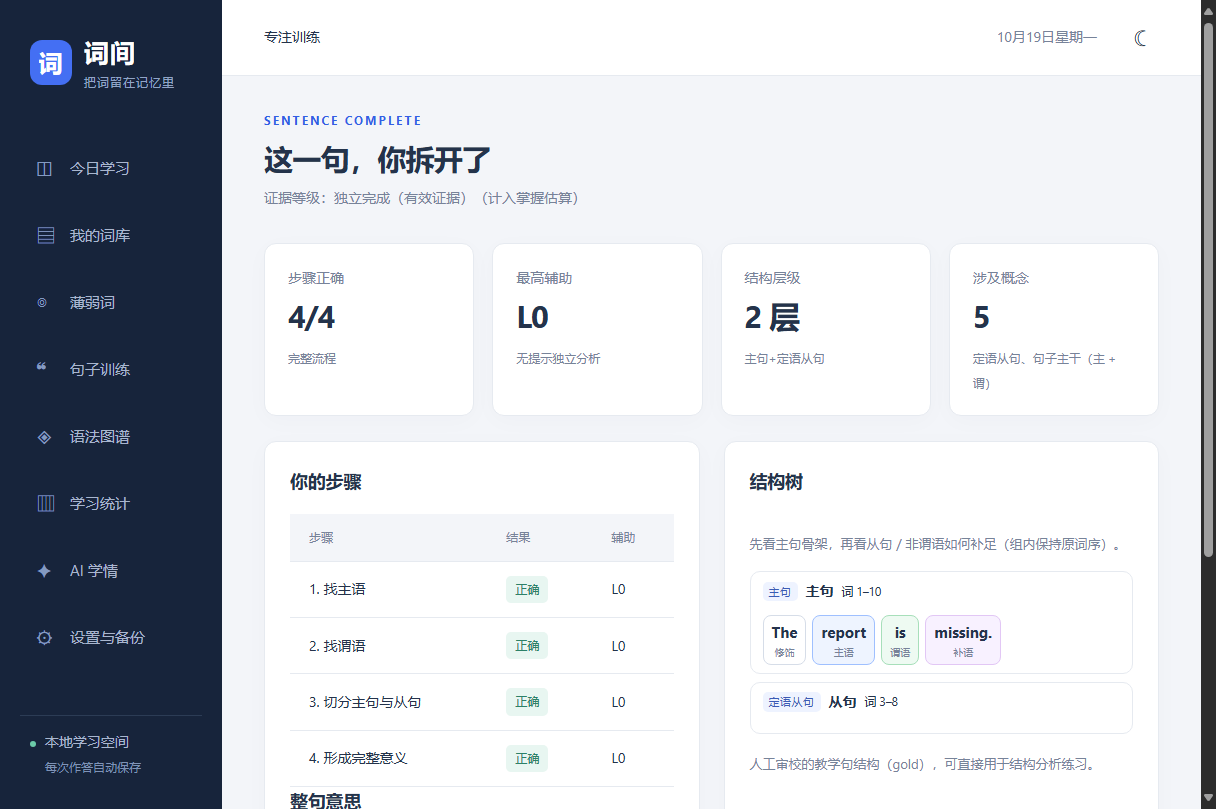
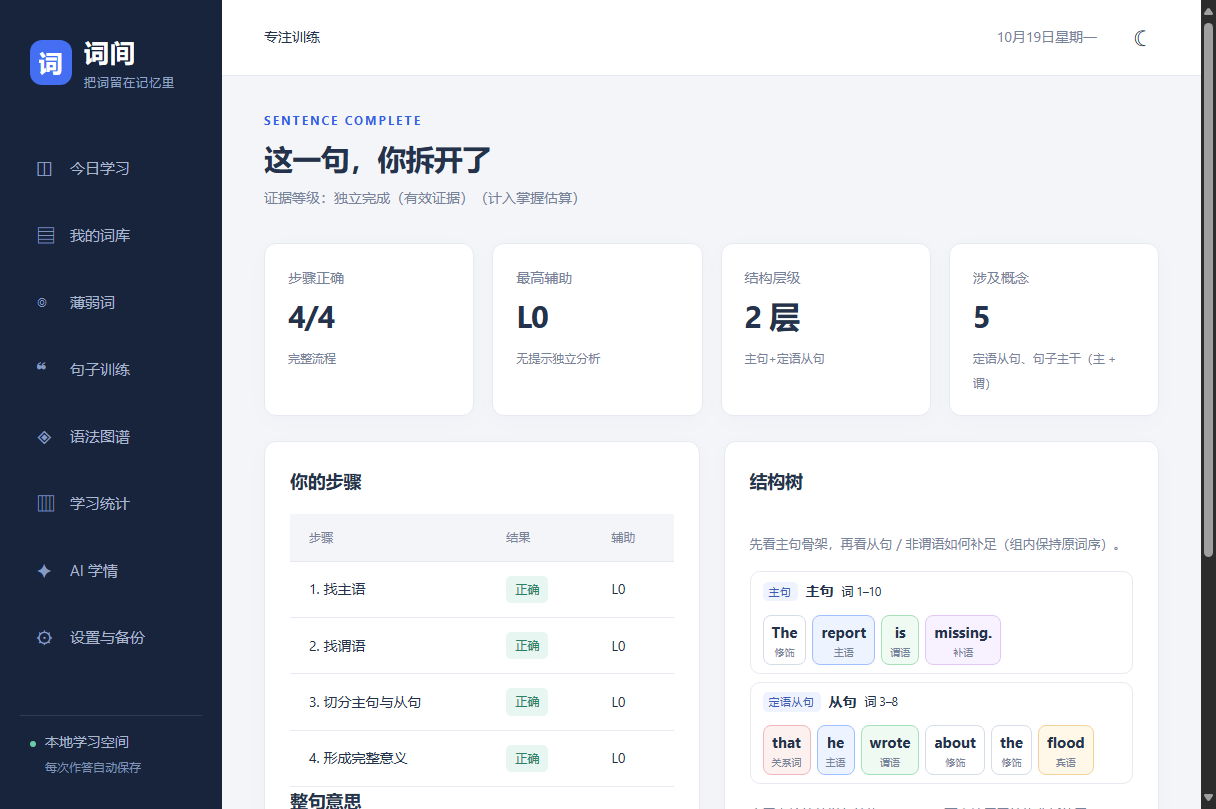
fix(phase4): expand every clause in the sentence tree by default
Child clauses were rendered inside collapsed <details>, so the relative clause
tokens were invisible until clicked. Learner-facing structure tree now shows
main clause and child clauses fully expanded (token order unchanged).

Changed region(s): [[0.625, 0.8962, 0.9062, 0.958]]

diff --git a/dist/assets/index-D0JoPHl4.js b/dist/assets/index-D0JoPHl4.js
@@ -116,4 +116,4 @@ obvious,明显的,adj.`]),"词书格式示例.csv")),pe("#resume","click",()=>bd
             ${t.supportLevel>0&&!t.answered?`<p class="hint">提示：${Q(s.hint)}</p>`:""}
             ${c}
         </section>
-        <p class="hint">句子来源：${r.sourceType} · 结构来源：${t.plan.simplified?"简化流程（句子较简单）":Nn(r.structure,r.id,r.text).structure.provenance}${t.plan.uncertain?" · 结构不确定，已标注":""}${t.plan.notes.length?` · ${Q(t.plan.notes.join("；"))}`:""}</p></div>`,document.querySelectorAll("[data-lab-option]").forEach(l=>l.addEventListener("click",()=>void Gb(l.dataset.labOption??""))),pe("#lab-hint","click",()=>{!($e!=null&&$e.current)||$e.current.answered||($e.current.supportLevel=Math.min(gi,$e.current.supportLevel+1),ze())}),pe("#lab-next","click",()=>qb()),pe("#lab-skip","click",()=>Xb()),document.querySelectorAll("[data-lab-back]").forEach(l=>l.addEventListener("click",()=>{$e=null,Et="sentence",ze()})),document.querySelectorAll("[data-jit]").forEach(l=>l.addEventListener("click",()=>Kb(l.dataset.jit??"")))}async function Gb(e){const t=$e,r=t==null?void 0:t.current;if(!t||!r||r.answered)return;const a=r.plan.steps[r.stepIndex],n=qT(a,e,r.supportLevel);r.stepRecords.push(YT(a.id,e,n.correct,r.supportLevel,Date.now()-r.stepStartedAt,n.errorType)),r.answered=e,r.evaluation=n,ze()}function qb(){const e=$e,t=e==null?void 0:e.current;if(!(!e||!t)){if(t.stepIndex+1<t.plan.steps.length){t.stepIndex++,t.answered=null,t.evaluation=null,t.supportLevel=0,t.stepStartedAt=Date.now(),ze();return}Yb()}}function Xb(){const e=$e;if(e){if(e.index++,e.index>=e.queue.length){Pd();return}Ei(),ze()}}function Kb(e){const t=$e,r=t==null?void 0:t.current;if(!(r!=null&&r.evaluation))return;const a=ib(e,r.evaluation);if(!a){ye("这个知识点暂时没有卡片");return}ur(`<div class="eyebrow">JUST-IN-TIME · ${a.seconds}s</div><h2>${Q(a.name)}</h2><p><b>规则</b> ${Q(a.rule)}</p><p><b>为什么</b> ${Q(a.why)}</p><blockquote>${Q(a.example.ok)}${a.example.bad?`<br><small class="bad-line">✗ ${Q(a.example.bad)}</small>`:""}${a.example.note?`<br><small>${Q(a.example.note)}</small>`:""}</blockquote><p><b>你刚才的错误</b> ${Q(a.trigger)}</p><ul class="plain-list">${a.commonErrors.map(n=>`<li>${Q(n)}</li>`).join("")}</ul><p><b>迁移</b> ${Q(a.transfer)}</p><div class="actions"><button class="primary" id="jit-back">回到原句再判断</button></div>`),pe("#jit-back","click",()=>Cr())}async function Yb(){const e=$e,t=e==null?void 0:e.current,r=Nd();if(!e||!t||!r)return;const a=t.stepRecords.every(c=>c.correct),n={sentenceId:r.id,sentence:r.text,sourceType:r.sourceType,sourceId:r.sourceId,targetWords:r.targetWordIds,grammarConceptIds:$i(r),steps:t.stepRecords,durationMs:Math.max(1e3,Date.now()-e.startedAt),sessionId:e.sessionId,meaningCorrect:t.stepRecords.filter(c=>c.stepId.startsWith("meaning")).every(c=>c.correct)?!0:t.stepRecords.some(c=>c.stepId.startsWith("meaning"))?!1:null,translationDependence:Lo(t.stepRecords),transferOf:t.transferOf,delayed:t.delayed},s=sb({concepts:U.grammarConcepts,grammarAttempts:U.grammarAttempts,sentenceAttempts:U.sentenceAttempts},n,ob(t.plan.steps),Date.now(),Vt);U.grammarConcepts=s.concepts;const i=s.grammarAttempts.filter(c=>!U.grammarAttempts.some(l=>l.id===c.id));U.grammarAttempts=s.grammarAttempts;let o=null;if(!s.duplicate){U.sentenceAttempts.push(s.attempt),o={...r,usedCount:(r.usedCount??0)+1,lastUsedAt:Date.now()},Ke=Ke.map(c=>c.id===r.id?o:c),U.sentences=Ke;try{await xh(s.attempt,i,s.concepts.filter(c=>s.updatedConceptIds.includes(c.id)),o)}catch(c){ye(`证据保存失败（本地数据仍保留在内存）：${c.message}`)}}t.done=!0,t.result={evidenceClass:s.evidenceClass,counts:s.countsTowardMastery,allCorrect:a,duplicate:s.duplicate,conceptIds:s.updatedConceptIds},e.finished.push({sentenceId:r.id,correctSteps:t.stepRecords.filter(c=>c.correct).length,total:t.stepRecords.length,evidenceClass:s.evidenceClass,conceptIds:s.updatedConceptIds}),ze()}function Lo(e){return e.reduce((t,r)=>Math.max(t,r.supportLevel??0),0)}function Jb(e){const t=$e,r=t.current,a=r.result,n=Nn(e.structure,e.id,e.text).structure,s=ud(n),i=r.stepRecords.map((l,f)=>{const u=r.plan.steps[f];return`<tr><td>${f+1}. ${Q(_d[(u==null?void 0:u.kind)??"subject"])}</td><td>${l.correct?'<span class="badge fluent">正确</span>':`<span class="badge unknown">错误</span> <small>${ji[l.errorType]??l.errorType}</small>`}</td><td>L${l.supportLevel??0}</td></tr>`}).join(""),o=eb(e,Ke),c=t.index+1>=t.queue.length;_e("#main").innerHTML='<div id="lab-results">'+Dr("SENTENCE COMPLETE",a.allCorrect?"这一句，你拆开了":"这一句还没完全拆开",`证据等级：${ZT[a.evidenceClass]}${a.counts?"（计入掌握估算）":"（不计入掌握，只计接触）"}`)+`<div class="metrics">${Qe("步骤正确",`${r.stepRecords.filter(l=>l.correct).length}/${r.stepRecords.length}`,r.plan.simplified?"简化流程":"完整流程")}${Qe("最高辅助",`L${Lo(r.stepRecords)}`,Ui[Lo(r.stepRecords)])}${Qe("结构层级",`${s.clauseCount} 层`,s.clauseKinds.map(l=>tn[l]).join("+"))}${Qe("涉及概念",String(a.conceptIds.length),a.conceptIds.slice(0,2).map(l=>{var f;return((f=cr(l))==null?void 0:f.name)??l}).join("、"))}</div><div class="two-col"><section class="panel"><h2>你的步骤</h2><div class="table-scroll"><table><thead><tr><th>步骤</th><th>结果</th><th>辅助</th></tr></thead><tbody>${i}</tbody></table></div><h2>整句意思</h2><p class="meaning-reveal">${Q(e.zh)}</p><p class="hint">先自己复述一遍，再对照；这一步不产生掌握证据。</p></section><section class="panel"><h2>结构树</h2>${Qb(e,n)}</section></div><div class="actions">${o?'<button class="secondary" id="lab-transfer">换一句同结构的新句（迁移验证）</button>':""}<button class="primary" id="lab-next-sentence">${c?"结束本次训练":"下一句"}</button></div>`+(o?`<p class="hint">迁移句：${Q(o.candidate.text)}（共用 ${o.sameGrammar.map(l=>{var f;return((f=cr(l))==null?void 0:f.name)??l}).join("、")}）</p>`:"")+"</div>",pe("#lab-next-sentence","click",()=>{t.index++,t.index>=t.queue.length?Pd():(Ei(),ze())}),pe("#lab-transfer","click",()=>{o&&(t.queue.splice(t.index+1,0,o.candidate.id),t.index++,Ei({transferOf:e.id}),ze())})}function Zb(e){const t=e.glossary??{},r=e.text.toLowerCase(),a=s=>{const i=s.split(" ")[0].toLowerCase().replace(/[^a-z']/g,""),o=r.indexOf(i);if(o<0)return!1;const c=o===0?" ":r[o-1],l=o+i.length>=r.length?" ":r[o+i.length];return!/[a-z]/.test(c)&&!/[a-z]/.test(l)},n=Object.entries(t).filter(([s])=>a(s));return n.length?`<div class="pret teach"><span class="src-badge">预教词</span> ${n.map(([s,i])=>`<span class="token"><b>${Q(s)}</b><small>${Q(i)}</small></span>`).join(" ")}<p class="hint">先确认这些词的意思，再开始拆句；它们不计入"未知生词"。</p></div>`:""}function Qb(e,t){const r=fa(t),n=[...t.clauses].sort((i,o)=>i.start-o.start).map(i=>`<details class="tree-clause" ${i.parentId?"":"open"}><summary><span class="clause-kind">${tn[i.kind]}</span> <b>${Q(i.label)}</b> <small>词 ${i.start+1}–${i.end+1}</small></summary><div class="tree-tokens">${r.filter(o=>o.clauseId===i.id).map(o=>`<span class="token role-${o.role}" title="依存：${Q(o.headText)}${o.note?` · ${Q(o.note)}`:""}"><b>${Q(o.text)}</b><small>${o.roleLabel}</small></span>`).join("")}</div></details>`).join(""),s=t.provenance==="gold"?"":`<p class="hint warn">结构来源是 ${t.provenance}（confidence ${t.confidence}）：这不是可靠的完整句法分析，只用于引导你注意成分位置。</p>`;return`<div id="lab-tree" class="tree"><p class="hint">先看主句骨架，再看从句／非谓语如何补足（组内保持原词序）。</p>${n}</div>${s}<p class="hint">${Q(t.note)}</p>`}async function Pd(){const e=$e;if(!e)return;const t=e.finished,r=Math.max(.5,Math.round((Date.now()-e.startedAt)/3e4)/2),a=e.planTaskId,n=e.planTaskKind;$e=null,a?(await zc({planTaskId:a,kind:n??"sentence-basic-structure",sessionId:e.sessionId},r),Et="home"):Et="sentence",ze(),ye(`本次完成 ${t.length} 句 · 用时约 ${Math.round(r)} 分钟${t.length?` · ${t.map(s=>`${s.correctSteps}/${s.total}`).join("、")}`:""}`)}function e4(){if(!new URLSearchParams(location.search).has("test"))return;const e={step:()=>{const t=$e==null?void 0:$e.current;if(!t)return null;const r=t.plan.steps[t.stepIndex];return{index:t.stepIndex,total:t.plan.steps.length,kind:r.kind,correctId:r.correctId,answered:!!t.answered,evidence:t.result?t.result.evidenceClass:""}},answerCorrect:()=>{const t=$e==null?void 0:$e.current;if(!t)return!1;const r=t.plan.steps[t.stepIndex],a=document.querySelector(`[data-lab-option="${r.correctId}"]`);return a?(a.click(),!0):!1},answerWrong:()=>{const t=$e==null?void 0:$e.current;if(!t)return!1;const r=t.plan.steps[t.stepIndex],a=r.options.find(s=>s.id!==r.correctId),n=a?document.querySelector(`[data-lab-option="${a.id}"]`):null;return n?(n.click(),!0):!1}};window.__labTest=e}async function t4(){e4(),await ba(),U=await hh(),Fn();try{const e=await vb({grammarConcepts:U.grammarConcepts,sentences:U.sentences});U.grammarConcepts=e.concepts,U.sentences=e.sentences,Ke=e.sentences.length?e.sentences:Io()}catch(e){Ke=Io(),console.error("图谱初始化失败",e)}try{Re=await vd(Fr(Date.now()))??null}catch{Re=null}ze(),U.migration&&Date.now()-U.migration.at<10*60*1e3&&setTimeout(()=>ye(`本地数据库已从 v${U.migration.from} 升级到 v${U.migration.to}；建议立即导出一次完整备份`),600)}navigator.locks?navigator.locks.request("vocabulary-memory-writer",{ifAvailable:!0},async e=>{if(!e){_e("#app").innerHTML='<div class="startup-error"><h1>词间已在另一个窗口打开</h1><p>为避免学习记录互相覆盖，请关闭另一个窗口后刷新。</p><button onclick="location.reload()">刷新</button></div>';return}try{await t4(),await new Promise(()=>{})}catch(t){_e("#app").textContent="无法打开本地数据库："+t.message}}):_e("#app").textContent="此浏览器缺少安全的多窗口存储锁，请使用较新的 Chrome、Edge、Firefox 或 Safari。";
+        <p class="hint">句子来源：${r.sourceType} · 结构来源：${t.plan.simplified?"简化流程（句子较简单）":Nn(r.structure,r.id,r.text).structure.provenance}${t.plan.uncertain?" · 结构不确定，已标注":""}${t.plan.notes.length?` · ${Q(t.plan.notes.join("；"))}`:""}</p></div>`,document.querySelectorAll("[data-lab-option]").forEach(l=>l.addEventListener("click",()=>void Gb(l.dataset.labOption??""))),pe("#lab-hint","click",()=>{!($e!=null&&$e.current)||$e.current.answered||($e.current.supportLevel=Math.min(gi,$e.current.supportLevel+1),ze())}),pe("#lab-next","click",()=>qb()),pe("#lab-skip","click",()=>Xb()),document.querySelectorAll("[data-lab-back]").forEach(l=>l.addEventListener("click",()=>{$e=null,Et="sentence",ze()})),document.querySelectorAll("[data-jit]").forEach(l=>l.addEventListener("click",()=>Kb(l.dataset.jit??"")))}async function Gb(e){const t=$e,r=t==null?void 0:t.current;if(!t||!r||r.answered)return;const a=r.plan.steps[r.stepIndex],n=qT(a,e,r.supportLevel);r.stepRecords.push(YT(a.id,e,n.correct,r.supportLevel,Date.now()-r.stepStartedAt,n.errorType)),r.answered=e,r.evaluation=n,ze()}function qb(){const e=$e,t=e==null?void 0:e.current;if(!(!e||!t)){if(t.stepIndex+1<t.plan.steps.length){t.stepIndex++,t.answered=null,t.evaluation=null,t.supportLevel=0,t.stepStartedAt=Date.now(),ze();return}Yb()}}function Xb(){const e=$e;if(e){if(e.index++,e.index>=e.queue.length){Pd();return}Ei(),ze()}}function Kb(e){const t=$e,r=t==null?void 0:t.current;if(!(r!=null&&r.evaluation))return;const a=ib(e,r.evaluation);if(!a){ye("这个知识点暂时没有卡片");return}ur(`<div class="eyebrow">JUST-IN-TIME · ${a.seconds}s</div><h2>${Q(a.name)}</h2><p><b>规则</b> ${Q(a.rule)}</p><p><b>为什么</b> ${Q(a.why)}</p><blockquote>${Q(a.example.ok)}${a.example.bad?`<br><small class="bad-line">✗ ${Q(a.example.bad)}</small>`:""}${a.example.note?`<br><small>${Q(a.example.note)}</small>`:""}</blockquote><p><b>你刚才的错误</b> ${Q(a.trigger)}</p><ul class="plain-list">${a.commonErrors.map(n=>`<li>${Q(n)}</li>`).join("")}</ul><p><b>迁移</b> ${Q(a.transfer)}</p><div class="actions"><button class="primary" id="jit-back">回到原句再判断</button></div>`),pe("#jit-back","click",()=>Cr())}async function Yb(){const e=$e,t=e==null?void 0:e.current,r=Nd();if(!e||!t||!r)return;const a=t.stepRecords.every(c=>c.correct),n={sentenceId:r.id,sentence:r.text,sourceType:r.sourceType,sourceId:r.sourceId,targetWords:r.targetWordIds,grammarConceptIds:$i(r),steps:t.stepRecords,durationMs:Math.max(1e3,Date.now()-e.startedAt),sessionId:e.sessionId,meaningCorrect:t.stepRecords.filter(c=>c.stepId.startsWith("meaning")).every(c=>c.correct)?!0:t.stepRecords.some(c=>c.stepId.startsWith("meaning"))?!1:null,translationDependence:Lo(t.stepRecords),transferOf:t.transferOf,delayed:t.delayed},s=sb({concepts:U.grammarConcepts,grammarAttempts:U.grammarAttempts,sentenceAttempts:U.sentenceAttempts},n,ob(t.plan.steps),Date.now(),Vt);U.grammarConcepts=s.concepts;const i=s.grammarAttempts.filter(c=>!U.grammarAttempts.some(l=>l.id===c.id));U.grammarAttempts=s.grammarAttempts;let o=null;if(!s.duplicate){U.sentenceAttempts.push(s.attempt),o={...r,usedCount:(r.usedCount??0)+1,lastUsedAt:Date.now()},Ke=Ke.map(c=>c.id===r.id?o:c),U.sentences=Ke;try{await xh(s.attempt,i,s.concepts.filter(c=>s.updatedConceptIds.includes(c.id)),o)}catch(c){ye(`证据保存失败（本地数据仍保留在内存）：${c.message}`)}}t.done=!0,t.result={evidenceClass:s.evidenceClass,counts:s.countsTowardMastery,allCorrect:a,duplicate:s.duplicate,conceptIds:s.updatedConceptIds},e.finished.push({sentenceId:r.id,correctSteps:t.stepRecords.filter(c=>c.correct).length,total:t.stepRecords.length,evidenceClass:s.evidenceClass,conceptIds:s.updatedConceptIds}),ze()}function Lo(e){return e.reduce((t,r)=>Math.max(t,r.supportLevel??0),0)}function Jb(e){const t=$e,r=t.current,a=r.result,n=Nn(e.structure,e.id,e.text).structure,s=ud(n),i=r.stepRecords.map((l,f)=>{const u=r.plan.steps[f];return`<tr><td>${f+1}. ${Q(_d[(u==null?void 0:u.kind)??"subject"])}</td><td>${l.correct?'<span class="badge fluent">正确</span>':`<span class="badge unknown">错误</span> <small>${ji[l.errorType]??l.errorType}</small>`}</td><td>L${l.supportLevel??0}</td></tr>`}).join(""),o=eb(e,Ke),c=t.index+1>=t.queue.length;_e("#main").innerHTML='<div id="lab-results">'+Dr("SENTENCE COMPLETE",a.allCorrect?"这一句，你拆开了":"这一句还没完全拆开",`证据等级：${ZT[a.evidenceClass]}${a.counts?"（计入掌握估算）":"（不计入掌握，只计接触）"}`)+`<div class="metrics">${Qe("步骤正确",`${r.stepRecords.filter(l=>l.correct).length}/${r.stepRecords.length}`,r.plan.simplified?"简化流程":"完整流程")}${Qe("最高辅助",`L${Lo(r.stepRecords)}`,Ui[Lo(r.stepRecords)])}${Qe("结构层级",`${s.clauseCount} 层`,s.clauseKinds.map(l=>tn[l]).join("+"))}${Qe("涉及概念",String(a.conceptIds.length),a.conceptIds.slice(0,2).map(l=>{var f;return((f=cr(l))==null?void 0:f.name)??l}).join("、"))}</div><div class="two-col"><section class="panel"><h2>你的步骤</h2><div class="table-scroll"><table><thead><tr><th>步骤</th><th>结果</th><th>辅助</th></tr></thead><tbody>${i}</tbody></table></div><h2>整句意思</h2><p class="meaning-reveal">${Q(e.zh)}</p><p class="hint">先自己复述一遍，再对照；这一步不产生掌握证据。</p></section><section class="panel"><h2>结构树</h2>${Qb(e,n)}</section></div><div class="actions">${o?'<button class="secondary" id="lab-transfer">换一句同结构的新句（迁移验证）</button>':""}<button class="primary" id="lab-next-sentence">${c?"结束本次训练":"下一句"}</button></div>`+(o?`<p class="hint">迁移句：${Q(o.candidate.text)}（共用 ${o.sameGrammar.map(l=>{var f;return((f=cr(l))==null?void 0:f.name)??l}).join("、")}）</p>`:"")+"</div>",pe("#lab-next-sentence","click",()=>{t.index++,t.index>=t.queue.length?Pd():(Ei(),ze())}),pe("#lab-transfer","click",()=>{o&&(t.queue.splice(t.index+1,0,o.candidate.id),t.index++,Ei({transferOf:e.id}),ze())})}function Zb(e){const t=e.glossary??{},r=e.text.toLowerCase(),a=s=>{const i=s.split(" ")[0].toLowerCase().replace(/[^a-z']/g,""),o=r.indexOf(i);if(o<0)return!1;const c=o===0?" ":r[o-1],l=o+i.length>=r.length?" ":r[o+i.length];return!/[a-z]/.test(c)&&!/[a-z]/.test(l)},n=Object.entries(t).filter(([s])=>a(s));return n.length?`<div class="pret teach"><span class="src-badge">预教词</span> ${n.map(([s,i])=>`<span class="token"><b>${Q(s)}</b><small>${Q(i)}</small></span>`).join(" ")}<p class="hint">先确认这些词的意思，再开始拆句；它们不计入"未知生词"。</p></div>`:""}function Qb(e,t){const r=fa(t),n=[...t.clauses].sort((i,o)=>i.start-o.start).map(i=>`<details class="tree-clause" open><summary><span class="clause-kind">${tn[i.kind]}</span> <b>${Q(i.label)}</b> <small>词 ${i.start+1}–${i.end+1}</small></summary><div class="tree-tokens">${r.filter(o=>o.clauseId===i.id).map(o=>`<span class="token role-${o.role}" title="依存：${Q(o.headText)}${o.note?` · ${Q(o.note)}`:""}"><b>${Q(o.text)}</b><small>${o.roleLabel}</small></span>`).join("")}</div></details>`).join(""),s=t.provenance==="gold"?"":`<p class="hint warn">结构来源是 ${t.provenance}（confidence ${t.confidence}）：这不是可靠的完整句法分析，只用于引导你注意成分位置。</p>`;return`<div id="lab-tree" class="tree"><p class="hint">先看主句骨架，再看从句／非谓语如何补足（组内保持原词序）。</p>${n}</div>${s}<p class="hint">${Q(t.note)}</p>`}async function Pd(){const e=$e;if(!e)return;const t=e.finished,r=Math.max(.5,Math.round((Date.now()-e.startedAt)/3e4)/2),a=e.planTaskId,n=e.planTaskKind;$e=null,a?(await zc({planTaskId:a,kind:n??"sentence-basic-structure",sessionId:e.sessionId},r),Et="home"):Et="sentence",ze(),ye(`本次完成 ${t.length} 句 · 用时约 ${Math.round(r)} 分钟${t.length?` · ${t.map(s=>`${s.correctSteps}/${s.total}`).join("、")}`:""}`)}function e4(){if(!new URLSearchParams(location.search).has("test"))return;const e={step:()=>{const t=$e==null?void 0:$e.current;if(!t)return null;const r=t.plan.steps[t.stepIndex];return{index:t.stepIndex,total:t.plan.steps.length,kind:r.kind,correctId:r.correctId,answered:!!t.answered,evidence:t.result?t.result.evidenceClass:""}},answerCorrect:()=>{const t=$e==null?void 0:$e.current;if(!t)return!1;const r=t.plan.steps[t.stepIndex],a=document.querySelector(`[data-lab-option="${r.correctId}"]`);return a?(a.click(),!0):!1},answerWrong:()=>{const t=$e==null?void 0:$e.current;if(!t)return!1;const r=t.plan.steps[t.stepIndex],a=r.options.find(s=>s.id!==r.correctId),n=a?document.querySelector(`[data-lab-option="${a.id}"]`):null;return n?(n.click(),!0):!1}};window.__labTest=e}async function t4(){e4(),await ba(),U=await hh(),Fn();try{const e=await vb({grammarConcepts:U.grammarConcepts,sentences:U.sentences});U.grammarConcepts=e.concepts,U.sentences=e.sentences,Ke=e.sentences.length?e.sentences:Io()}catch(e){Ke=Io(),console.error("图谱初始化失败",e)}try{Re=await vd(Fr(Date.now()))??null}catch{Re=null}ze(),U.migration&&Date.now()-U.migration.at<10*60*1e3&&setTimeout(()=>ye(`本地数据库已从 v${U.migration.from} 升级到 v${U.migration.to}；建议立即导出一次完整备份`),600)}navigator.locks?navigator.locks.request("vocabulary-memory-writer",{ifAvailable:!0},async e=>{if(!e){_e("#app").innerHTML='<div class="startup-error"><h1>词间已在另一个窗口打开</h1><p>为避免学习记录互相覆盖，请关闭另一个窗口后刷新。</p><button onclick="location.reload()">刷新</button></div>';return}try{await t4(),await new Promise(()=>{})}catch(t){_e("#app").textContent="无法打开本地数据库："+t.message}}):_e("#app").textContent="此浏览器缺少安全的多窗口存储锁，请使用较新的 Chrome、Edge、Firefox 或 Safari。";

diff --git a/src/app.ts b/src/app.ts
@@ -397,11 +397,25 @@ document.addEventListener('keydown', e => {
             void submit(id, 'answer');
     }
 });
-function showResults(s: StudySession) { stopTimer(); page = 'results'; if (taskExecution && taskExecution.sessionId === s.id) {
-    const exec = taskExecution;
-    taskExecution = null;
-    void completePlanTask(exec, Math.max(0.5, Math.round((Date.now() - exec.startedAt) / 30000) / 2));
-} const rs = data.records.filter(r => r.sessionId === s.id); const st = recordStats(rs); const ids = new Set(rs.map(r => r.wordId)); const ws = data.words.filter(w => ids.has(w.id)); active = null; $('#main').innerHTML = title('SESSION COMPLETE', '这一轮，记住了多少？', '薄弱词已记录，并安排了下一次复习。') + `<div class="metrics">${metric('本轮作答', String(st.attempts), '含本轮强化重复')}${metric('正确率', pct(st.accuracy), st.unique + ' 个不同单词')}${metric('平均反应', seconds(st.meanMs), '有效作答时间')}${metric('待强化', String(ws.filter(isWeak).length), '按本轮结束后的状态')}</div><div class="actions"><button class="primary" id="review-round">重测本轮弱词</button><button class="secondary" id="round-export">导出本轮弱词</button><button class="secondary" id="back-home">返回首页</button></div><div class="two-col">${(['unknown', 'vague'] as Mastery[]).map(l => `<section class="panel"><h2>${labels[l]}</h2>${wordChips(ws.filter(w => w.state.level === l))}</section>`).join('')}</div><details class="panel"><summary>正常与熟练 · ${ws.filter(w => !isWeak(w)).length} 词</summary>${wordChips(ws.filter(w => !isWeak(w)))}</details>`; on('#review-round', 'click', () => startMode('weak', ws.filter(isWeak))); on('#round-export', 'click', () => download(exportWords(ws.filter(isWeak), 'csv'), '本轮弱词.csv')); on('#back-home', 'click', () => setPage('home')); bindDetails(); }
+function showResults(s: StudySession) {
+    stopTimer();
+    page = 'results';
+    if (taskExecution && taskExecution.sessionId === s.id) {
+        const exec = taskExecution;
+        taskExecution = null;
+        void completePlanTask(exec, Math.max(0.5, Math.round((Date.now() - exec.startedAt) / 30000) / 2));
+    }
+    const rs = data.records.filter(r => r.sessionId === s.id);
+    const st = recordStats(rs);
+    const ids = new Set(rs.map(r => r.wordId));
+    const ws = data.words.filter(w => ids.has(w.id));
+    active = null;
+    $('#main').innerHTML = title('SESSION COMPLETE', '这一轮，记住了多少？', '薄弱词已记录，并安排了下一次复习。') + `<div class="metrics">${metric('本轮作答', String(st.attempts), '含本轮强化重复')}${metric('正确率', pct(st.accuracy), st.unique + ' 个不同单词')}${metric('平均反应', seconds(st.meanMs), '有效作答时间')}${metric('待强化', String(ws.filter(isWeak).length), '按本轮结束后的状态')}</div><div class="actions"><button class="primary" id="review-round">重测本轮弱词</button><button class="secondary" id="round-export">导出本轮弱词</button><button class="secondary" id="back-home">返回首页</button></div><div class="two-col">${(['unknown', 'vague'] as Mastery[]).map(l => `<section class="panel"><h2>${labels[l]}</h2>${wordChips(ws.filter(w => w.state.level === l))}</section>`).join('')}</div><details class="panel"><summary>正常与熟练 · ${ws.filter(w => !isWeak(w)).length} 词</summary>${wordChips(ws.filter(w => !isWeak(w)))}</details>`;
+    on('#review-round', 'click', () => startMode('weak', ws.filter(isWeak)));
+    on('#round-export', 'click', () => download(exportWords(ws.filter(isWeak), 'csv'), '本轮弱词.csv'));
+    on('#back-home', 'click', () => setPage('home'));
+    bindDetails();
+}
 function wordChips(ws: Word[]) { return ws.length ? `<div class="chips">${ws.map(w => `<button data-detail="${w.id}">${esc(w.en)}</button>`).join('')}</div>` : '<p class="subtle">没有这一类单词</p>'; }
 function filtered(weak: boolean) { let ws = data.words.filter(w => (!weak || isWeak(w)) && (!bookFilter || w.bookId === bookFilter) && (!levelFilter || w.state.level === levelFilter) && (!search || `${w.en} ${w.zh} ${w.tags}`.toLowerCase().includes(search.toLowerCase()))); return ws.sort(sort === 'alpha' ? (a, b) => a.en.localeCompare(b.en) : sort === 'due' ? (a, b) => effectiveDue(a, data.settings.schedulingAuthority) - effectiveDue(b, data.settings.schedulingAuthority) : (a, b) => priority(b) - priority(a)); }
 function library(weak: boolean) {
@@ -653,11 +667,16 @@ function taskCard(t: PlanItem): string {
     return `<div class="plan-task ${esc(t.status)}" data-task="${esc(t.id)}"><div class="task-main"><div><b>${esc(t.label ?? TASK_LABELS[t.kind ?? ''] ?? t.kind ?? '任务')}</b><span class="task-minutes">${t.minutes} 分钟</span>${t.critical ? '<span class="badge vague">关键记忆</span>' : ''}${t.flexible ? '<span class="badge normal">可调整</span>' : ''}${statusText[t.status] ? `<span class="badge ${badge}">${statusText[t.status]}</span>` : ''}</div><small>${esc((t.reason ?? []).slice(0, 3).join(' · '))}</small><small>${(t.refs ?? []).length} 个词</small></div>${actions}</div>`;
 }
 function bindPlan() {
-    on('#plan-budget', 'change', e => { const v = (e.target as HTMLSelectElement).value; const custom = document.querySelector<HTMLInputElement>('#plan-custom'); if (custom)
-        custom.disabled = v !== 'custom'; if (v !== 'custom')
-        planBudget = Number(v);
-    else
-        custom?.focus(); });
+    on('#plan-budget', 'change', e => {
+        const v = (e.target as HTMLSelectElement).value;
+        const custom = document.querySelector<HTMLInputElement>('#plan-custom');
+        if (custom)
+            custom.disabled = v !== 'custom';
+        if (v !== 'custom')
+            planBudget = Number(v);
+        else
+            custom?.focus();
+    });
     on('#plan-custom', 'input', e => { planBudget = Number((e.target as HTMLInputElement).value); });
     on('#plan-energy', 'change', e => { planEnergy = (e.target as HTMLSelectElement).value as EnergyState; });
     on('#plan-create', 'click', createPlanFromUI);
@@ -668,10 +687,15 @@ function bindPlan() {
     document.querySelectorAll<HTMLElement>('[data-task-delay]').forEach(b => b.onclick = () => void planAction(b.dataset.taskDelay!, 'delay'));
     document.querySelectorAll<HTMLElement>('[data-task-replace]').forEach(b => b.onclick = () => void replacePlanTask(b.dataset.taskReplace!));
 }
-function upsertPlan(list: DailyPlan[], plan: DailyPlan): DailyPlan[] { const i = list.findIndex(p => p.id === plan.id); const next = [...list]; if (i === -1)
-    next.push(plan);
-else
-    next[i] = plan; return next; }
+function upsertPlan(list: DailyPlan[], plan: DailyPlan): DailyPlan[] {
+    const i = list.findIndex(p => p.id === plan.id);
+    const next = [...list];
+    if (i === -1)
+        next.push(plan);
+    else
+        next[i] = plan;
+    return next;
+}
 async function persistPlan(plan: DailyPlan): Promise<DailyPlan | null> {
     if (!todayPlan)
         return null;
@@ -1138,8 +1162,12 @@ function labPage(): void {
         </section>
         <p class="hint">句子来源：${rec.sourceType} · 结构来源：${cur.plan.simplified ? '简化流程（句子较简单）' : readStructure(rec.structure, rec.id, rec.text).structure.provenance}${cur.plan.uncertain ? ' · 结构不确定，已标注' : ''}${cur.plan.notes.length ? ` · ${esc(cur.plan.notes.join('；'))}` : ''}</p></div>`;
     document.querySelectorAll<HTMLElement>('[data-lab-option]').forEach(b => b.addEventListener('click', () => void labAnswer(b.dataset.labOption ?? '')));
-    on('#lab-hint', 'click', () => { if (!labSession?.current || labSession.current.answered)
-        return; labSession.current.supportLevel = Math.min(MAX_SUPPORT_LEVEL, labSession.current.supportLevel + 1); render(); });
+    on('#lab-hint', 'click', () => {
+        if (!labSession?.current || labSession.current.answered)
+            return;
+        labSession.current.supportLevel = Math.min(MAX_SUPPORT_LEVEL, labSession.current.supportLevel + 1);
+        render();
+    });
     on('#lab-next', 'click', () => labAdvance());
     on('#lab-skip', 'click', () => labSkip());
     document.querySelectorAll<HTMLElement>('[data-lab-back]').forEach(b => b.addEventListener('click', () => { labSession = null; page = 'sentence'; render(); }));
@@ -1253,12 +1281,15 @@ function labResultView(rec: SentenceRecord): void {
         + `<section class="panel"><h2>结构树</h2>${structureTreeHTML(rec, structure)}</section></div>`
         + `<div class="actions">${transfer ? `<button class="secondary" id="lab-transfer">换一句同结构的新句（迁移验证）</button>` : ''}<button class="primary" id="lab-next-sentence">${isLast ? '结束本次训练' : '下一句'}</button></div>`
         + (transfer ? `<p class="hint">迁移句：${esc(transfer.candidate.text)}（共用 ${transfer.sameGrammar.map(id => conceptById(id)?.name ?? id).join('、')}）</p>` : '') + '</div>';
-    on('#lab-next-sentence', 'click', () => { session.index++; if (session.index >= session.queue.length)
-        void finishLabSession();
-    else {
-        openLabSentence();
-        render();
-    } });
+    on('#lab-next-sentence', 'click', () => {
+        session.index++;
+        if (session.index >= session.queue.length)
+            void finishLabSession();
+        else {
+            openLabSentence();
+            render();
+        }
+    });
     on('#lab-transfer', 'click', () => {
         if (!transfer)
             return;
@@ -1290,7 +1321,7 @@ function preTeachHTML(rec: SentenceRecord): string {
 function structureTreeHTML(rec: SentenceRecord, structure: SentenceStructure): string {
     const rows = structureRows(structure);
     const clauses = [...structure.clauses].sort((a, b) => a.start - b.start);
-    const body = clauses.map(c => `<details class="tree-clause" ${c.parentId ? '' : 'open'}><summary><span class="clause-kind">${CLAUSE_LABELS[c.kind]}</span> <b>${esc(c.label)}</b> <small>词 ${c.start + 1}–${c.end + 1}</small></summary><div class="tree-tokens">${rows.filter(r => r.clauseId === c.id).map(r => `<span class="token role-${r.role}" title="依存：${esc(r.headText)}${r.note ? ` · ${esc(r.note)}` : ''}"><b>${esc(r.text)}</b><small>${r.roleLabel}</small></span>`).join('')}</div></details>`).join('');
+    const body = clauses.map(c => `<details class="tree-clause" open><summary><span class="clause-kind">${CLAUSE_LABELS[c.kind]}</span> <b>${esc(c.label)}</b> <small>词 ${c.start + 1}–${c.end + 1}</small></summary><div class="tree-tokens">${rows.filter(r => r.clauseId === c.id).map(r => `<span class="token role-${r.role}" title="依存：${esc(r.headText)}${r.note ? ` · ${esc(r.note)}` : ''}"><b>${esc(r.text)}</b><small>${r.roleLabel}</small></span>`).join('')}</div></details>`).join('');
     const warn = structure.provenance === 'gold' ? '' : `<p class="hint warn">结构来源是 ${structure.provenance}（confidence ${structure.confidence}）：这不是可靠的完整句法分析，只用于引导你注意成分位置。</p>`;
     return `<div id="lab-tree" class="tree"><p class="hint">先看主句骨架，再看从句／非谓语如何补足（组内保持原词序）。</p>${body}</div>${warn}<p class="hint">${esc(structure.note)}</p>`;
 }

diff --git a/dist/index.html b/dist/index.html
@@ -1,3 +1,3 @@
-<!doctype html><html lang="zh-CN"><head><meta charset="UTF-8"><meta name="viewport" content="width=device-width,initial-scale=1.0"><meta name="theme-color" content="#17243b"><title>词间 · 自适应词汇记忆</title>  <script type="module" crossorigin src="/assets/index-BgDmsONL.js"></script>
+<!doctype html><html lang="zh-CN"><head><meta charset="UTF-8"><meta name="viewport" content="width=device-width,initial-scale=1.0"><meta name="theme-color" content="#17243b"><title>词间 · 自适应词汇记忆</title>  <script type="module" crossorigin src="/assets/index-D0JoPHl4.js"></script>
   <link rel="stylesheet" crossorigin href="/assets/index-HhSJ9yVe.css">
 </head><body><div id="app"><p>正在打开本地词库…</p></div><div id="toast" role="status" aria-live="polite"></div><dialog id="modal"></dialog></body></html>
